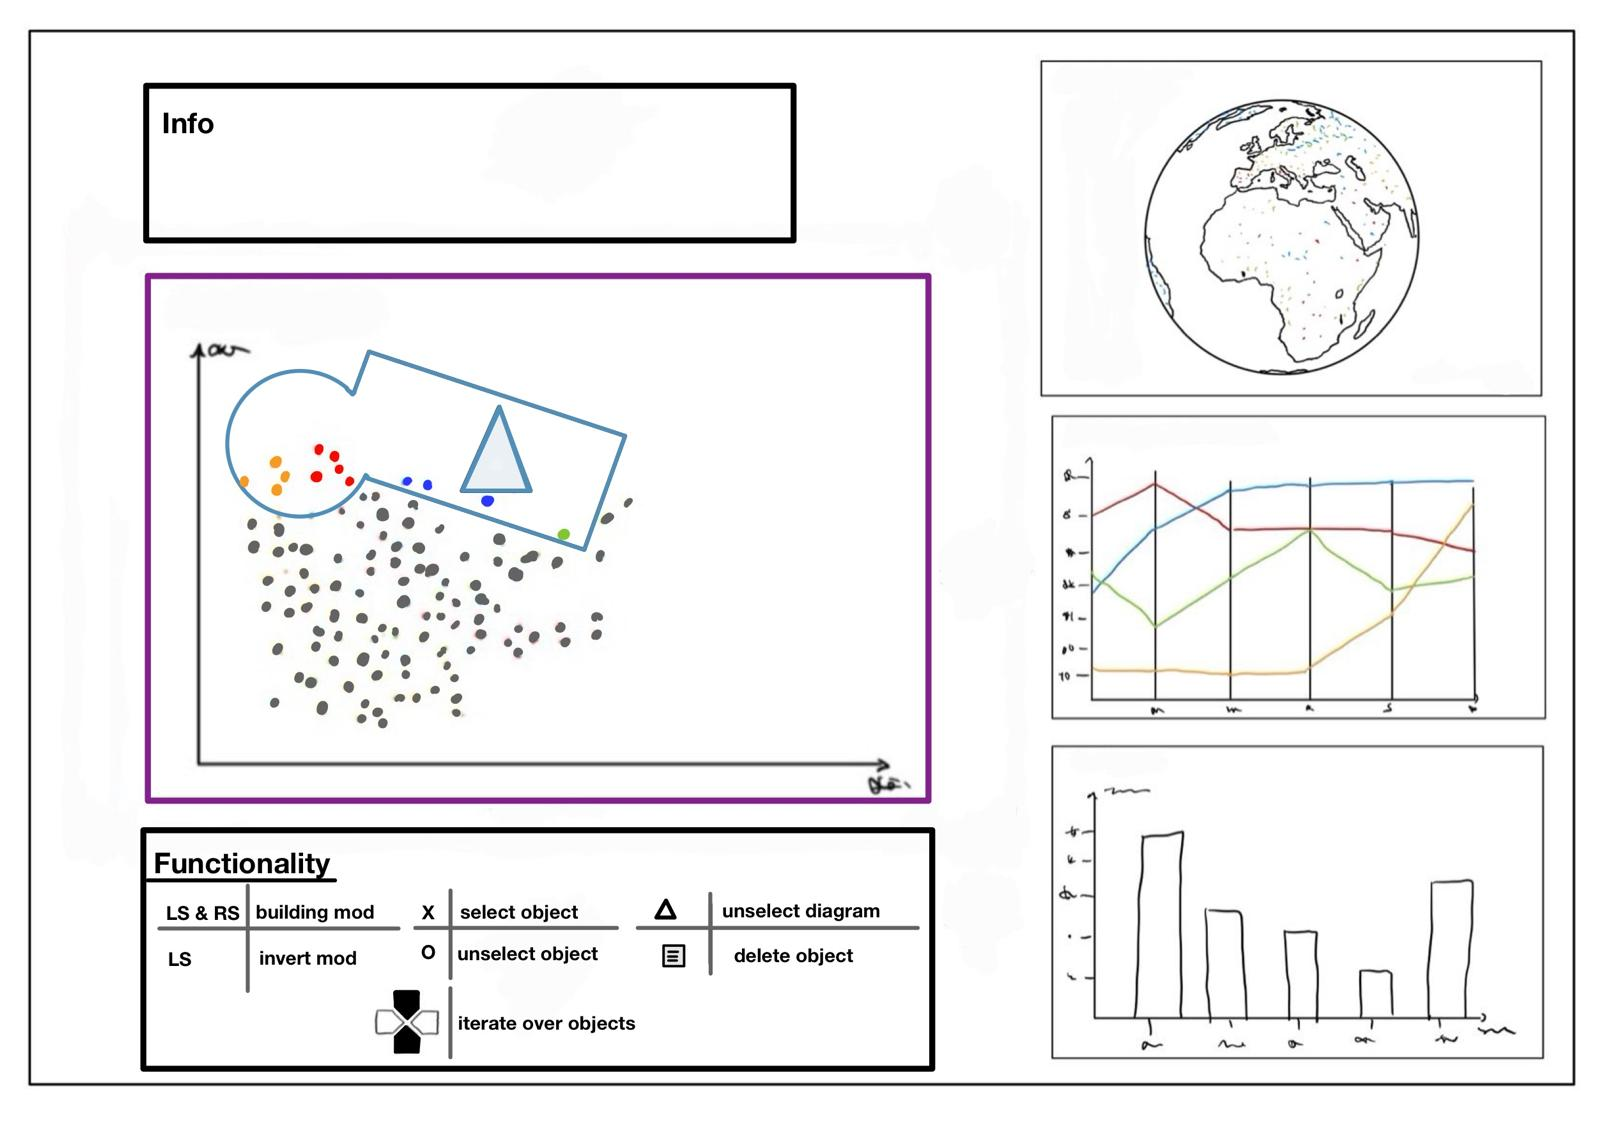
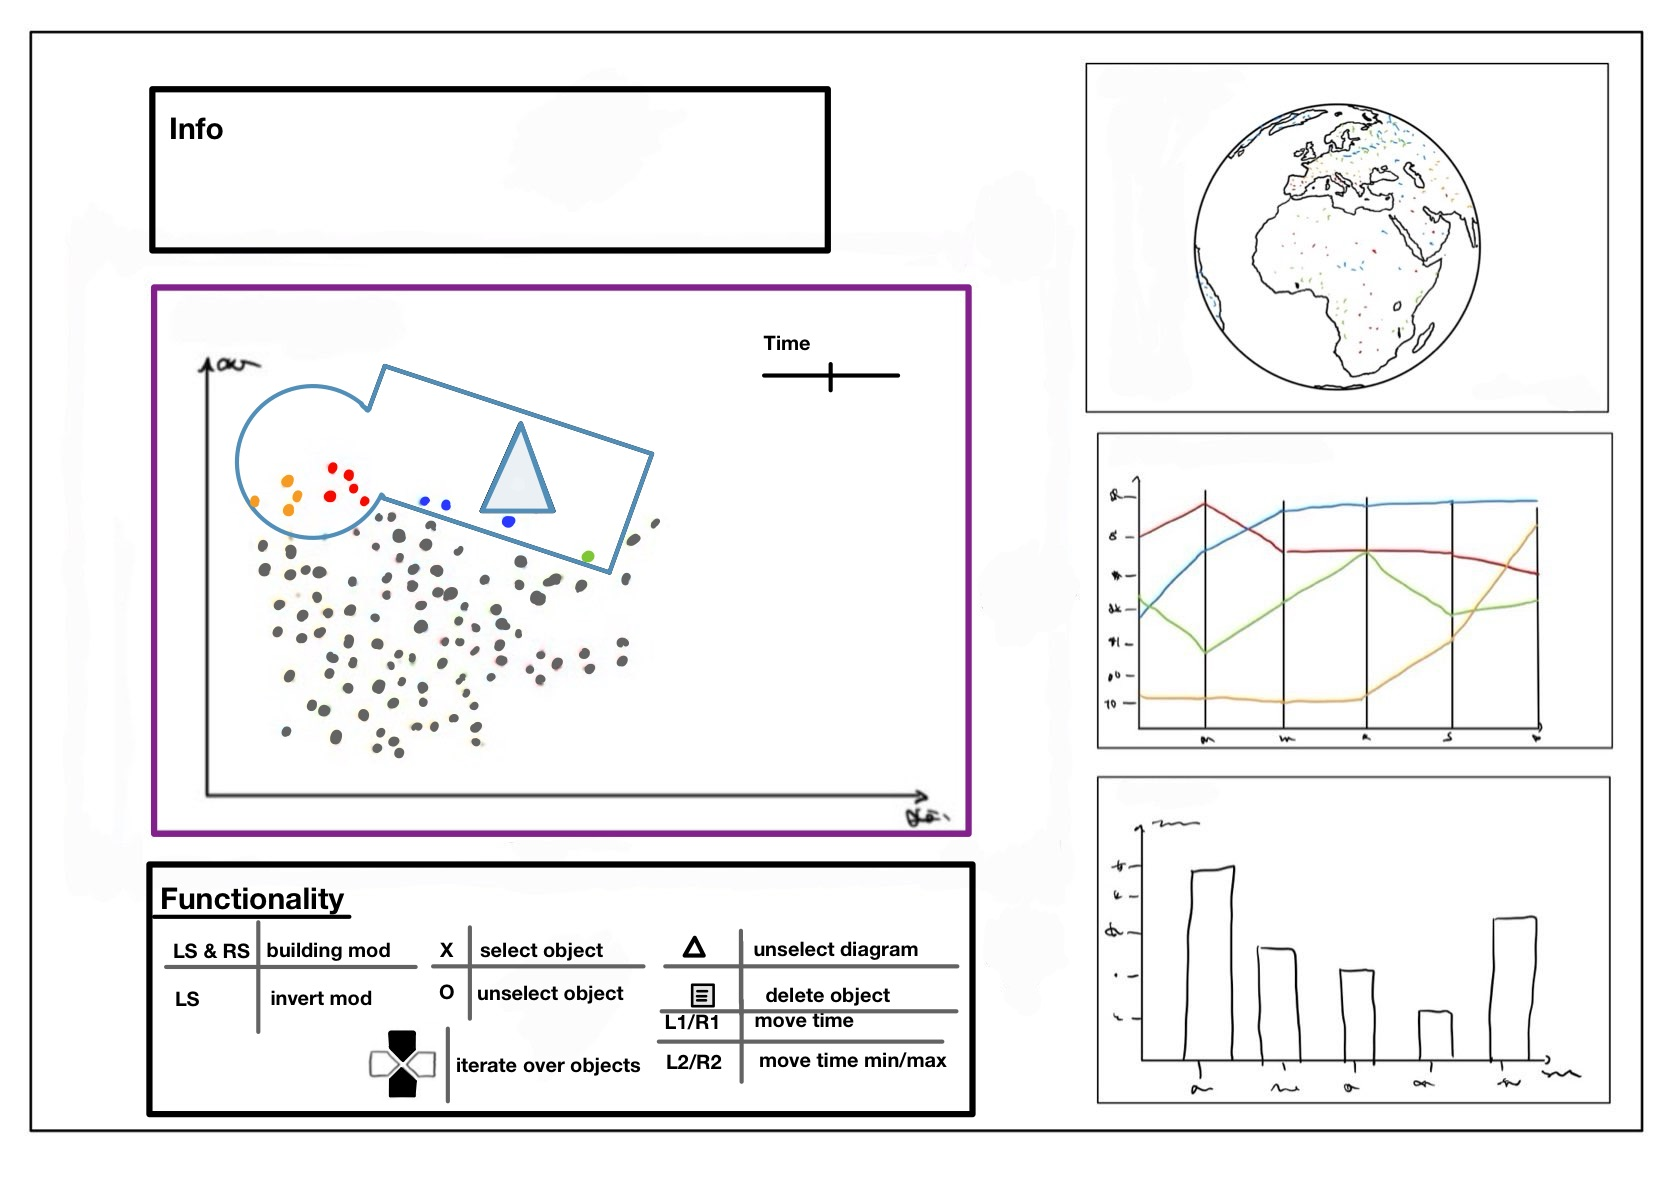
latest update

diff --git a/src/new_prototype.py b/src/new_prototype.py
@@ -93,7 +93,7 @@ while running:
                     current_image = "18"
                 elif current_image == "26":
                     current_image = "27"
-                elif current_image == "34":
+                elif current_image in ["34", "44"]:
                     current_image = "35"
                 if current_image in images:
                     display_image(images[current_image])
@@ -165,9 +165,17 @@ while running:
                     current_image = "36"
                     display_image(images[current_image])
                     print("👉 R1 → Showing image 36")
+                elif current_image == "39":
+                    current_image = "40"
+                    display_image(images[current_image])
+                    print("👉 R1 → Showing image 40")
 
 
             elif event.button == 7:  # L3
+                if current_image == "42":
+                   current_image = "43"
+                   display_image(images[current_image])
+                   print("🎮 L3 → Showing image 43")
                 left_stick_pressed = True
                 if right_stick_pressed and not combo_triggered:
                     if current_image == "4":
@@ -182,14 +190,21 @@ while running:
                         current_image = "29"
                     elif current_image == "31":
                         current_image = "32"
-
+                    elif current_image == "41":
+                        current_image = "42"
+                        
                     display_image(images[current_image])
                     print(f"🎮 L3 + R3 → Showing image {current_image}")
                     combo_triggered = True
 
             elif event.button == 8:  # R3
                 right_stick_pressed = True
-                if left_stick_pressed and not combo_triggered:
+                if current_image == "34" and not left_stick_pressed:
+                    current_image = "44"
+                    display_image(images[current_image])
+                    print("🎮 R3 → Showing image 44")
+                    combo_triggered = True
+                elif left_stick_pressed and not combo_triggered:
                     if current_image == "4":
                         current_image = "5"
                     elif current_image == "15":
@@ -202,7 +217,10 @@ while running:
                         current_image = "29"
                     elif current_image == "31":
                         current_image = "32"
-
+                    elif current_image == "36":
+                        current_image = "38"
+                    elif current_image == "41":
+                        current_image = "42"
                     display_image(images[current_image])
                     print(f"🎮 L3 + R3 → Showing image {current_image}")
                     combo_triggered = True
@@ -216,6 +234,11 @@ while running:
                     current_image = "37"
                     display_image(images[current_image])
                     print("👈 L1 → Showing image 37")
+                elif current_image == "38":
+                    current_image = "39"
+                    display_image(images[current_image])
+                    print("👈 L1 → Showing image 39")
+
 
             elif event.button == 1:  # Circle
                 if current_image == "5":
@@ -234,8 +257,8 @@ while running:
     if r2_value > 0.5:
         if current_image == "11":
             current_image = "12"
-        elif current_image == "11":
-            current_image = "12"
+        elif current_image == "40":
+            current_image = "41"
         display_image(images[current_image])
         print(f"👉 R2 (axis 5) → Showing image {current_image}")
 
